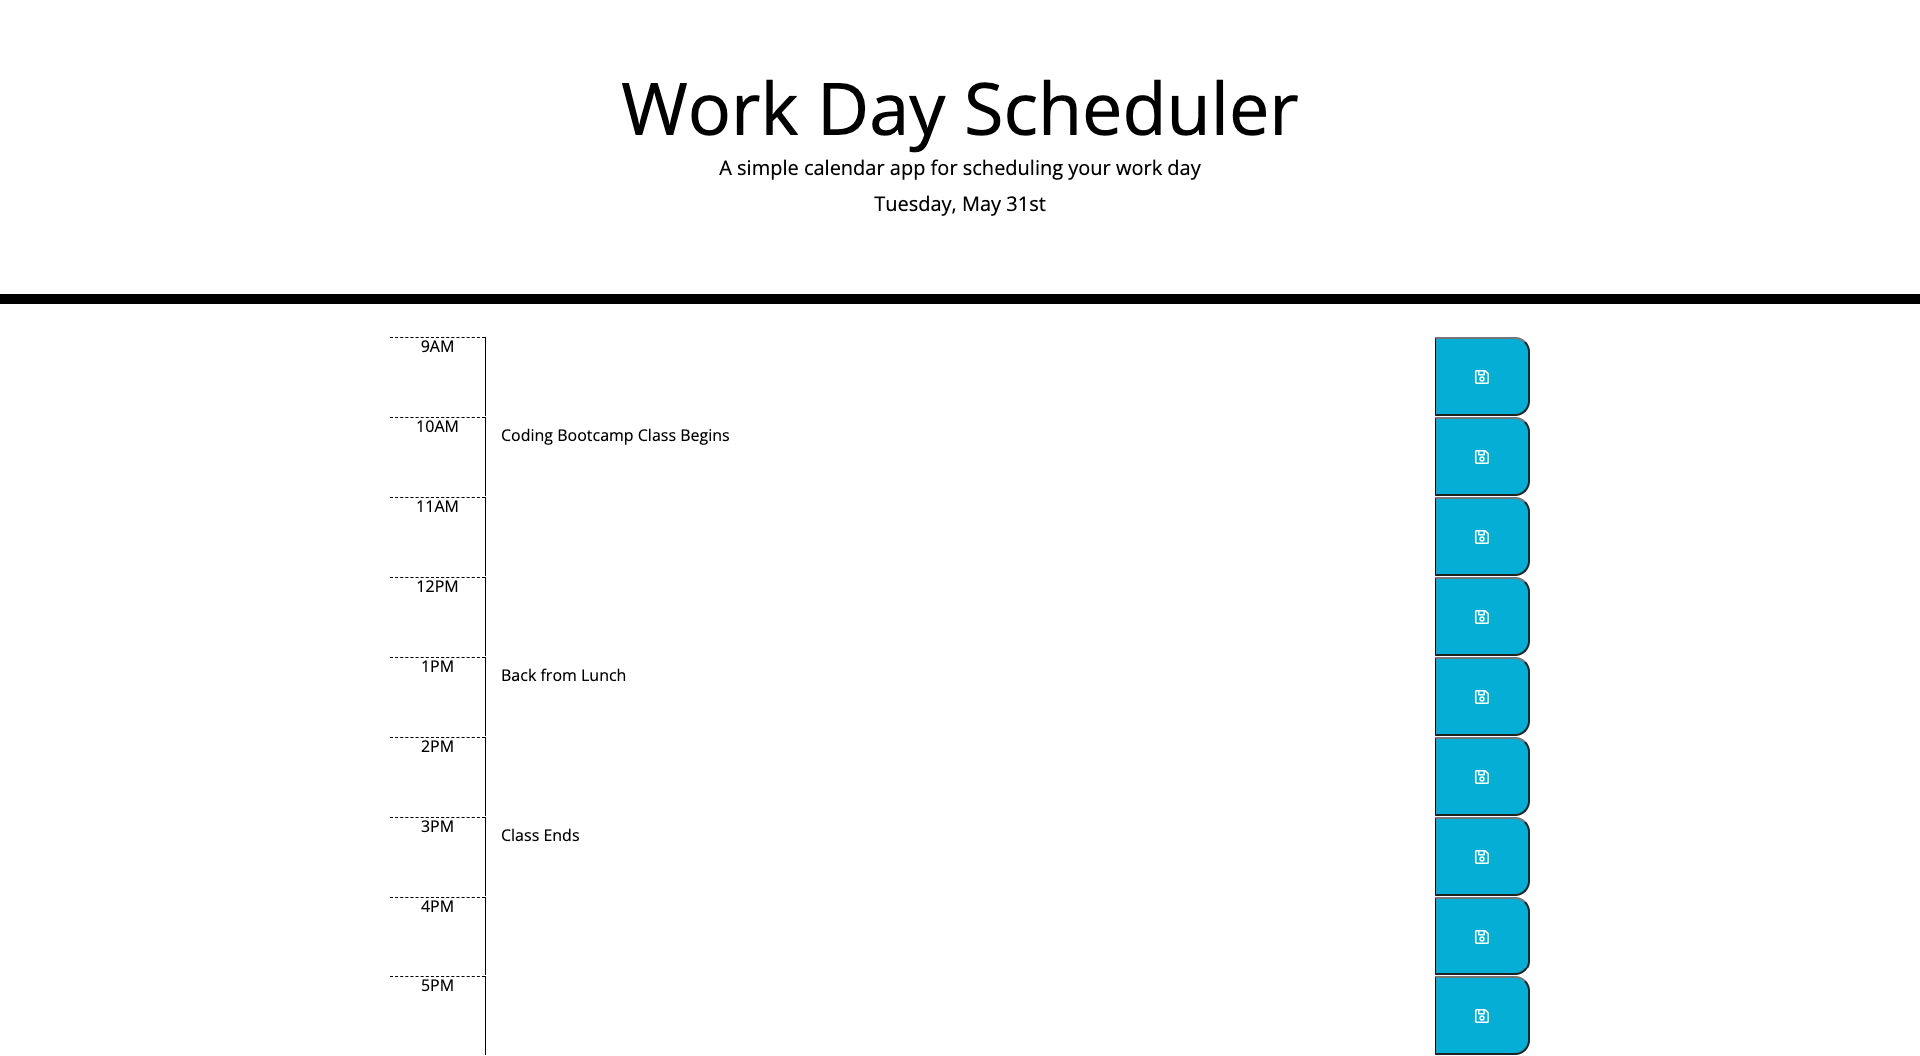
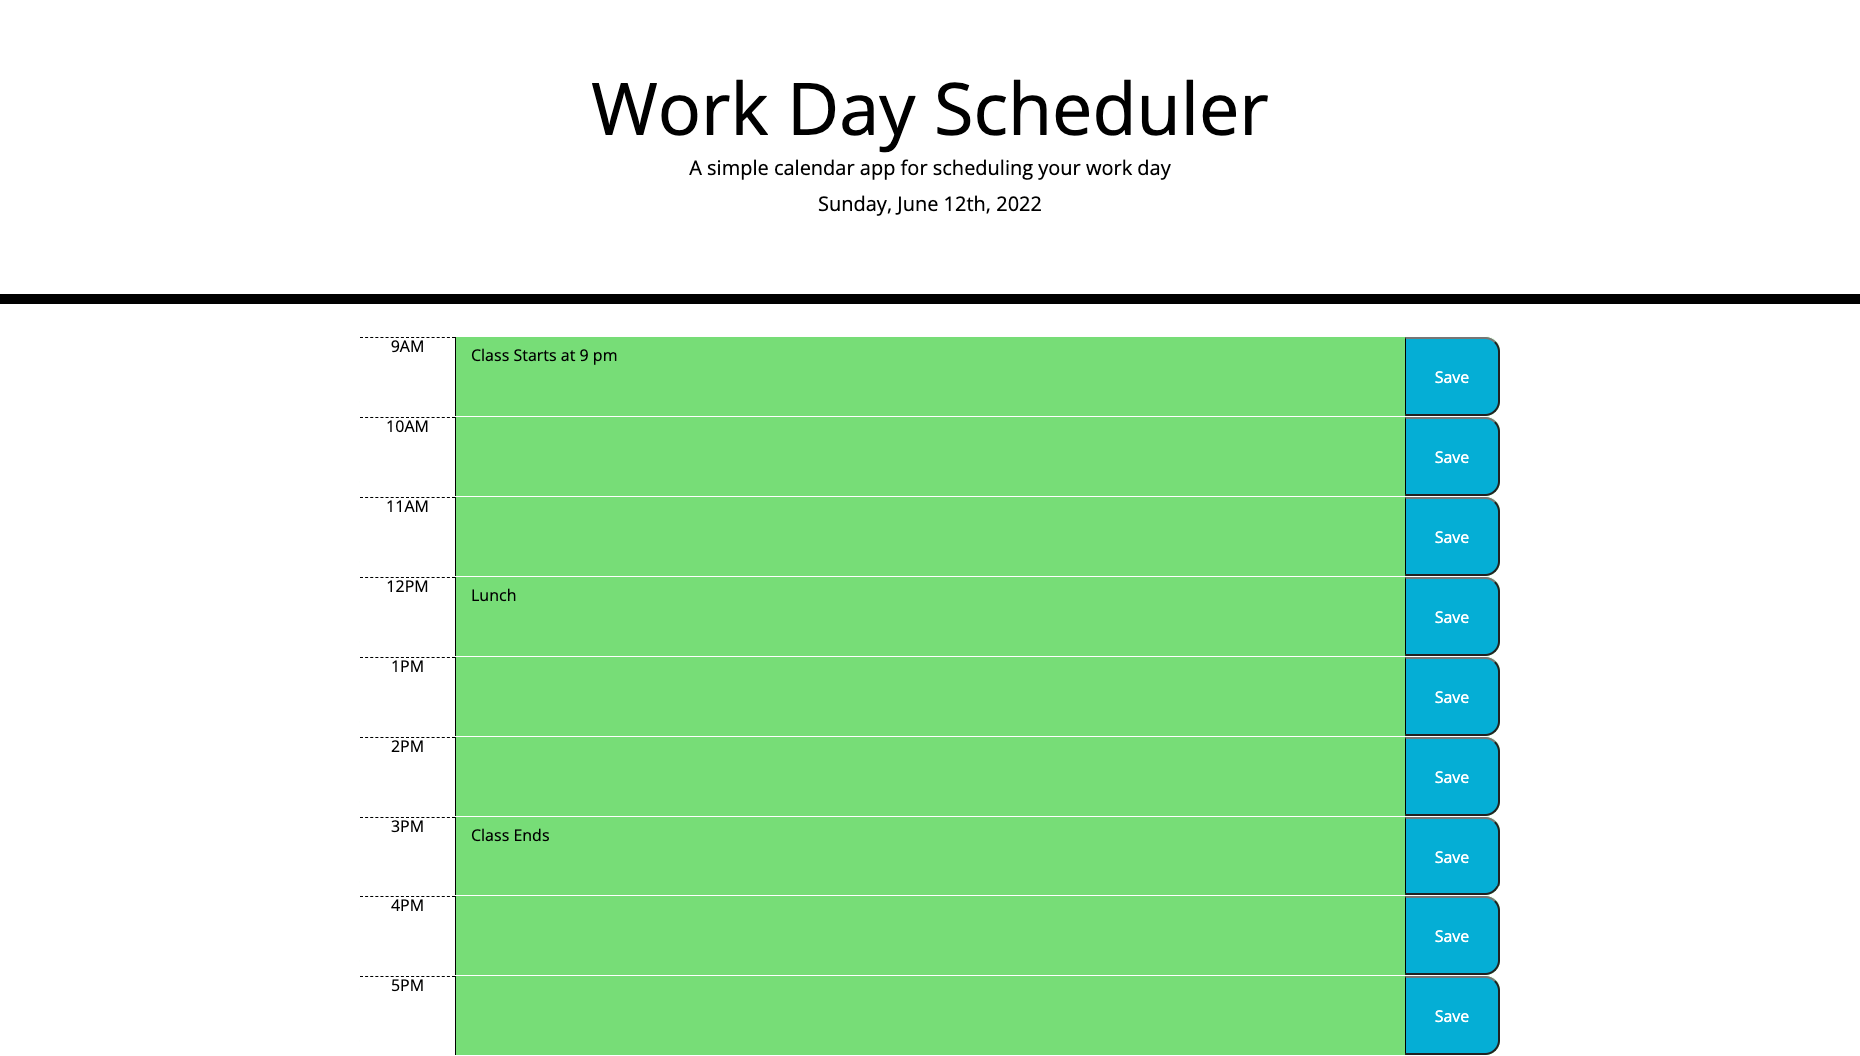
edits to html and js

diff --git a/assets/js/script.js b/assets/js/script.js
@@ -1,6 +1,6 @@
 // Use moment.js to format the variable today to output current day of the week, month, day to html
 var today = moment();
-$("#currentDay").text(today.format("dddd, MMMM Do"));
+$("#currentDay").text(today.format("dddd, MMMM Do, YYYY"));
 
 // Set click listener for save button, get values of description element and save input text in local storage
 $(document).ready(function () {
@@ -9,10 +9,10 @@ $(document).ready(function () {
         var time = $(this).parent().attr("id");
 
         localStorage.setItem(time, text);
-    })
+    });
 
     // Set up Fuction to track time, moment.js to format variable, which hour. JQuery time-block & loop over
-    function trackTime() {
+    function blockTime() {
         var timeCurrent = moment().hour();
 
         $(".time-block").each(function () {
@@ -33,11 +33,8 @@ $(document).ready(function () {
                 $(this).removeClass("present");
                 $(this).removeClass("past");
                 $(this).addClass("future");
-
             }
-
-        })
-
+        });
     }
 
     // Set get items from local storage, input details
@@ -51,8 +48,6 @@ $(document).ready(function () {
     $("#hour4 .description").val(localStorage.getItem("hour4"));
     $("#hour5 .description").val(localStorage.getItem("hour5"));
 
-    trackTime();
+    blockTime();
 
-
-
-})
+});

diff --git a/index.html b/index.html
@@ -76,7 +76,6 @@
             <textarea class="col-10 description"></textarea>
             <button class="col-1 saveBtn">Save</button>
         </section>
-
     </div>
 
     <script src="https://cdnjs.cloudflare.com/ajax/libs/jquery/3.2.1/jquery.min.js"></script>

diff --git a/README.md b/README.md
@@ -13,13 +13,13 @@ The assignement requires students to create a simple calnder application  that a
 
 ## Resources
 
--[LIVE SITE](https://github.com/raydover/work-day-scheduler)
+-[LIVE SITE](https://raydover.github.io/work-day-scheduler/)
 
--[Repository](https://git@github.com:raydover/work-day-scheduler.git)
+-[Repository](https://github.com/raydover/work-day-scheduler)
 
 ## Visuals
 
-![Horiseon Screenshot](./assets/Work-Day-Scheduler.png)
+![Horiseon Screenshot](./assets/work-day-scheduler.png)
 
 ## Authors and Acknowledgements
 
